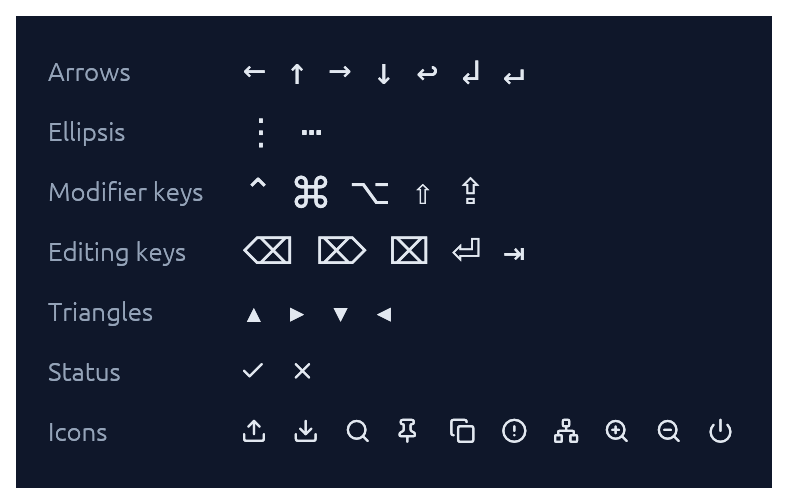
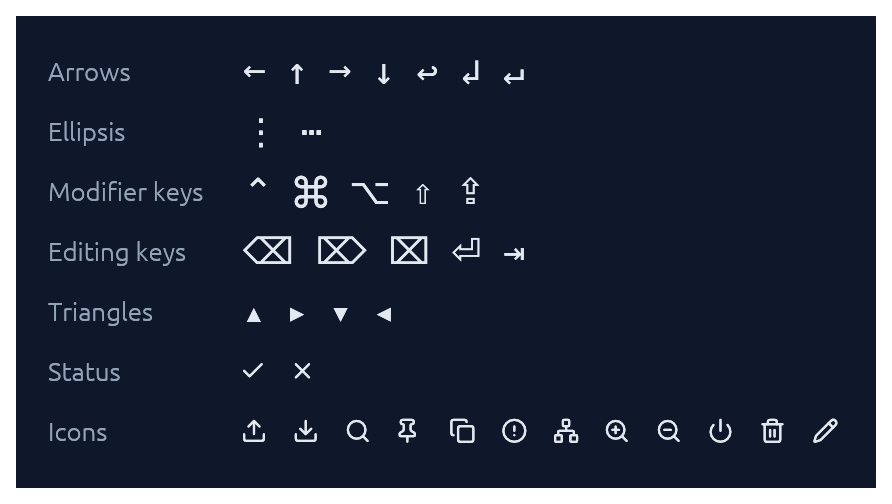
Glyphs: add TRASH and PENCIL to the Symbols font
Adds Lucide `trash-2` (U+E00A) and `pencil` (U+E00B) to the bundled
Elegance Symbols font, exposed as `glyphs::TRASH` and `glyphs::PENCIL`.
Delete and edit are among the most common UI actions, and without them
consumers had to fall back to egui's emoji wastebasket for destructive
actions, which clashes with the rest of the on-theme Lucide icon set.

- scripts/update_lucide_glyphs.py: bake trash-2 and pencil
- src/lib.rs: TRASH / PENCIL constants
- assets/elegance-symbols.ttf: re-baked (Lucide tag 1.11.0)
- examples/render_docs.rs + docs/images/glyphs.png: gallery updated
- README.md, assets/README.md: glyph table and prose kept in sync

diff --git a/src/lib.rs b/src/lib.rs
@@ -181,6 +181,10 @@ pub mod glyphs {
     pub const ZOOM_OUT: char = '\u{E008}';
     /// Power icon. Source: [Lucide `power`](https://lucide.dev/icons/power).
     pub const POWER: char = '\u{E009}';
+    /// Trash / delete icon, for destructive actions. Source: [Lucide `trash-2`](https://lucide.dev/icons/trash-2).
+    pub const TRASH: char = '\u{E00A}';
+    /// Pencil / edit icon. Source: [Lucide `pencil`](https://lucide.dev/icons/pencil).
+    pub const PENCIL: char = '\u{E00B}';
     /// Check / done mark, mapped at standard U+2713 so plain `'✓'` literals
     /// also pick up the elegance treatment.
     /// Source: [Lucide `check`](https://lucide.dev/icons/check).

diff --git a/examples/render_docs.rs b/examples/render_docs.rs
@@ -2003,6 +2003,8 @@ fn render_glyphs() {
                         g::ZOOM_IN,
                         g::ZOOM_OUT,
                         g::POWER,
+                        g::TRASH,
+                        g::PENCIL,
                     ]
                     .iter()
                     .map(|c| format!("{c} "))

diff --git a/scripts/update_lucide_glyphs.py b/scripts/update_lucide_glyphs.py
@@ -54,6 +54,8 @@ LUCIDE_GLYPHS = [
     ("zoom-in", 0xE007),
     ("zoom-out", 0xE008),
     ("power", 0xE009),
+    ("trash-2", 0xE00A),
+    ("pencil", 0xE00B),
     ("check", 0x2713),
     ("x", 0x2717),
 ]

diff --git a/assets/README.md b/assets/README.md
@@ -5,7 +5,8 @@
 A ~15 KB font combining a subset of DejaVu Sans (arrows, math ellipsis,
 modifier keys, delete keys, return arrows, disclosure triangles) with a
 small set of [Lucide](https://lucide.dev) UI icons (upload, download,
-search, pin, copy, alert, network, zoom-in, zoom-out, power, check, x).
+search, pin, copy, alert, network, zoom-in, zoom-out, power, trash, pencil,
+check, x).
 
 The source font, DejaVu Sans, is derived from Bitstream Vera. Its license
 permits redistribution of modified/subset fonts provided the font is renamed
@@ -52,6 +53,8 @@ Arev contributions) is preserved in `elegance-symbols-LICENSE.txt`.
 | U+E007    | (PUA) | zoom-in / magnifier with plus (Lucide `zoom-in`) |
 | U+E008    | (PUA) | zoom-out / magnifier with minus (Lucide `zoom-out`) |
 | U+E009    | (PUA) | power (Lucide `power`) |
+| U+E00A    | (PUA) | trash / delete (Lucide `trash-2`) |
+| U+E00B    | (PUA) | pencil / edit (Lucide `pencil`) |
 
 ### Regenerating the subset
 

diff --git a/README.md b/README.md
@@ -1057,7 +1057,7 @@ The tint fades out over `FLASH_DURATION` (~0.8 s). `resp.clear_flash()` dismisse
 
 `Theme::install` registers the ~15 KB `Elegance Symbols` font as a Proportional and Monospace fallback, so inline glyphs like `→`, `⋯`, `⌘`, `⇧`, `⌫`, `⏎`, `↩`, `▾` render out of the box without egui's default font missing them.
 
-The font combines a subset of DejaVu Sans (arrows, math ellipsis, Mac modifier keys `⌘ ⌥ ⌃ ⇧ ⇪`, editing keys `⌫ ⌦ ⌧ ⏎ ⇥`, disclosure triangles) with a small set of [Lucide](https://lucide.dev) UI icons baked in at the Private Use Area (`upload`, `download`, `search`, `pin`, `copy`, `circle-alert`, `network`, `zoom-in`, `zoom-out`, `power`) plus Lucide-styled `check` / `x` overriding the standard U+2713 / U+2717 codepoints. The icons are exposed as constants in the [`glyphs`] module:
+The font combines a subset of DejaVu Sans (arrows, math ellipsis, Mac modifier keys `⌘ ⌥ ⌃ ⇧ ⇪`, editing keys `⌫ ⌦ ⌧ ⏎ ⇥`, disclosure triangles) with a small set of [Lucide](https://lucide.dev) UI icons baked in at the Private Use Area (`upload`, `download`, `search`, `pin`, `copy`, `circle-alert`, `network`, `zoom-in`, `zoom-out`, `power`, `trash-2`, `pencil`) plus Lucide-styled `check` / `x` overriding the standard U+2713 / U+2717 codepoints. The icons are exposed as constants in the [`glyphs`] module:
 
 ```rust
 ui.label(egui::RichText::new(elegance::glyphs::UPLOAD).size(20.0));